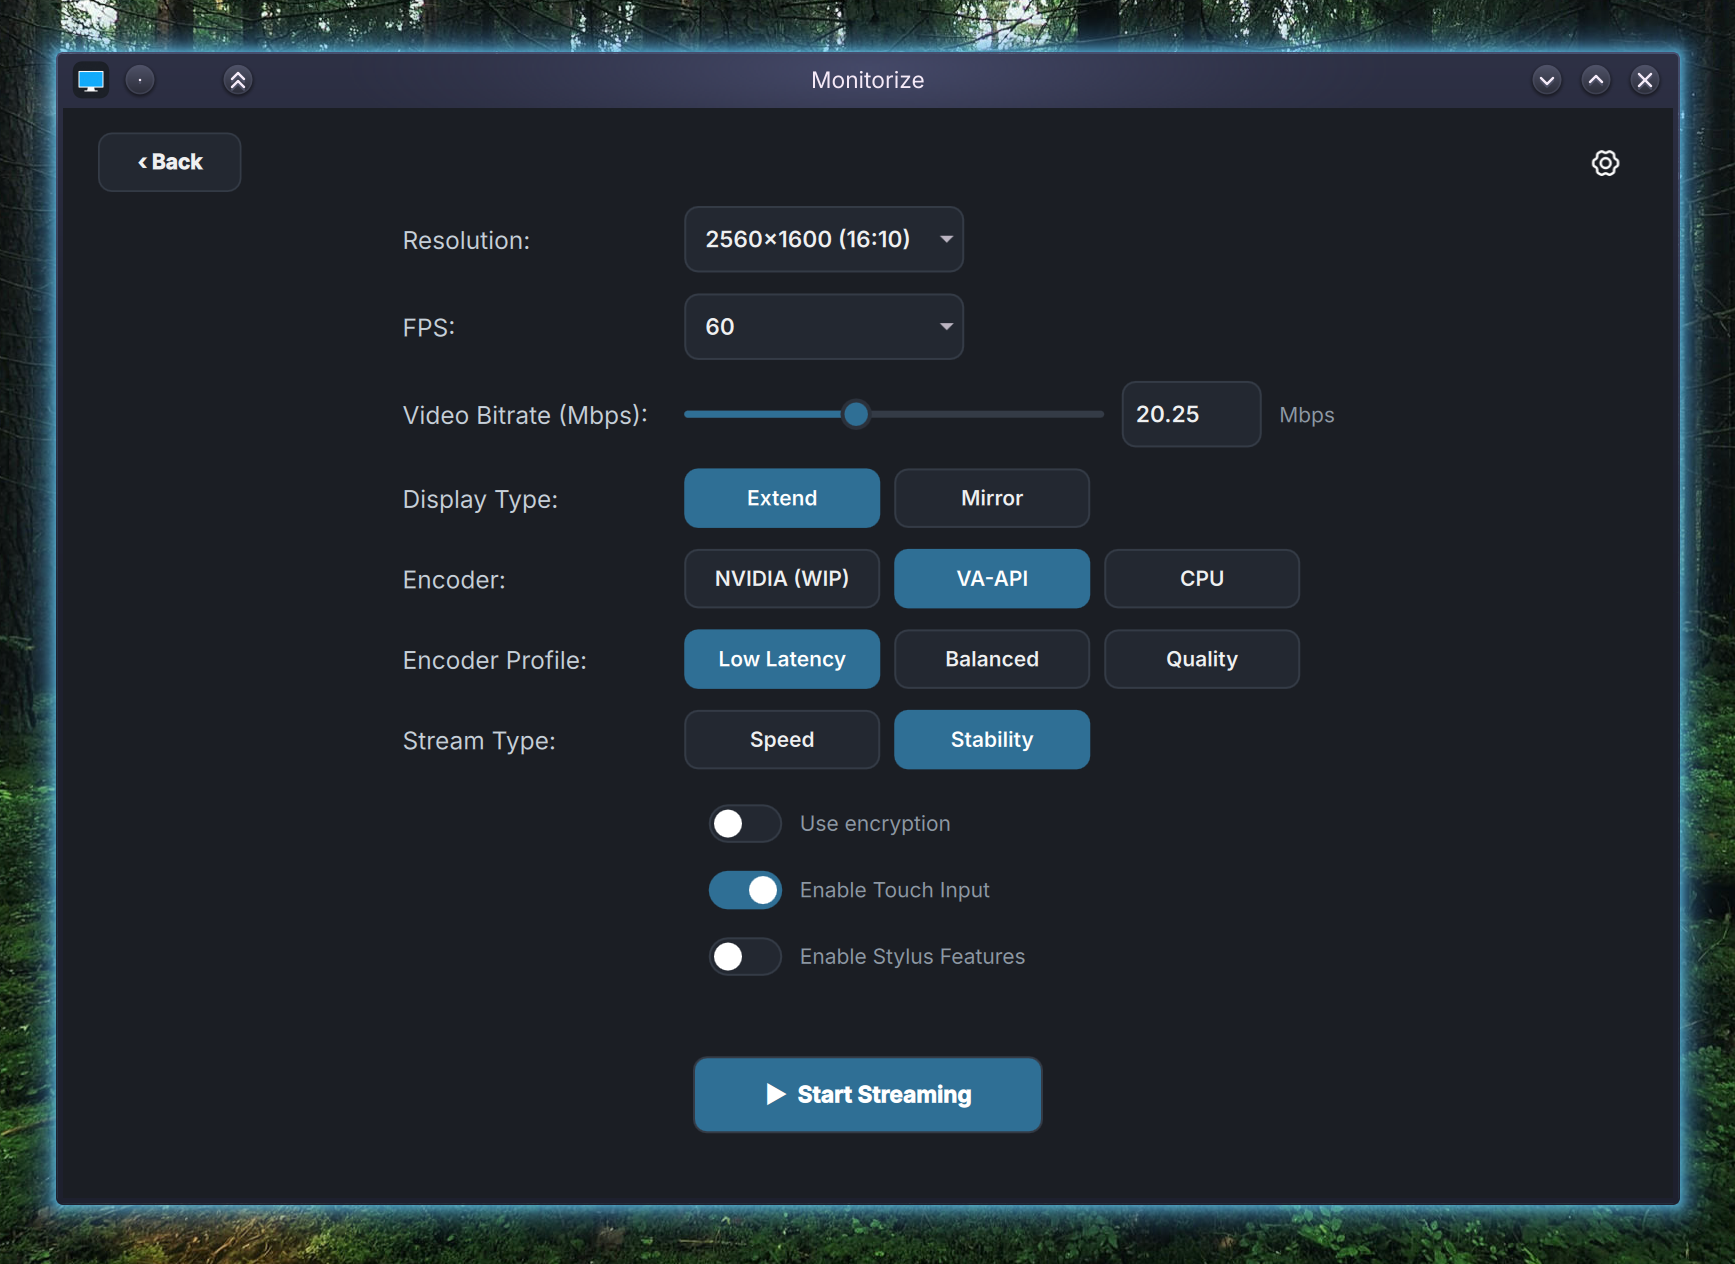
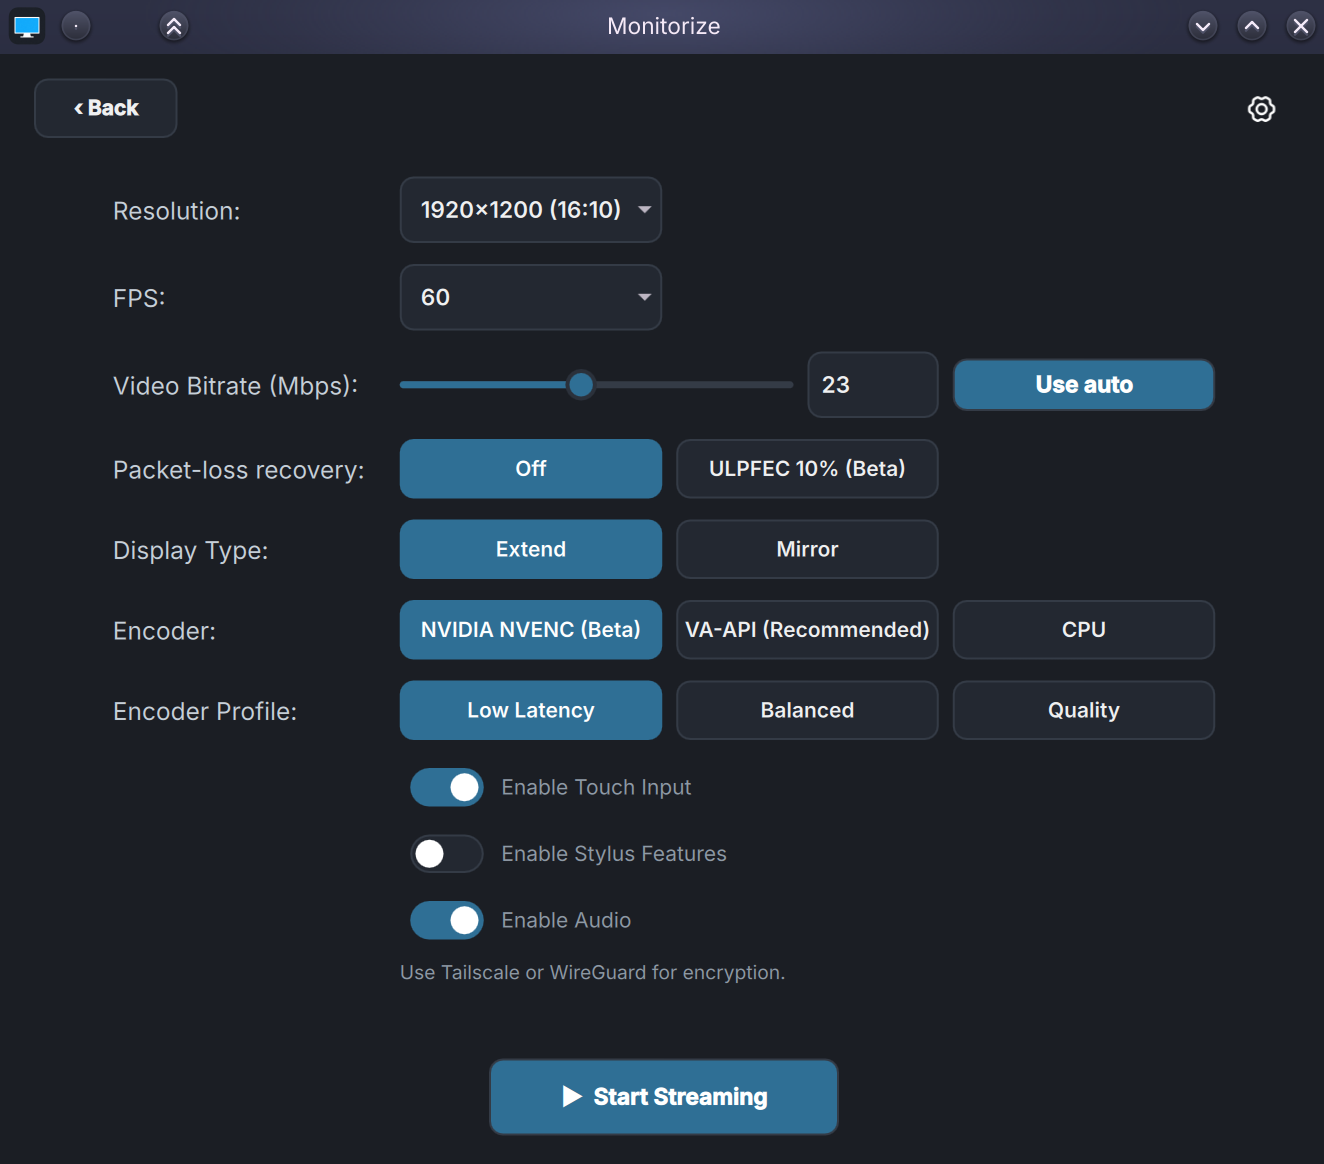
changed images and few chages to readme

diff --git a/README.md b/README.md
@@ -21,7 +21,7 @@
 
 ## 📖 Overview
 
-**Monitorize** turns your Android tablet, Laptop, PC into a secondary monitor for your Linux desktop.
+**Monitorize** turns your Android tablet, PC into a secondary monitor for your Linux desktop.
 
 **Supported desktop environments are KDE Plasma, Hyprland and GNOME.**
 
@@ -77,43 +77,13 @@ adb shell am start -n com.example.monitorize/.MainActivity
 
 1. After starting the stream in the desktop application make sure you go to your display settings and configure the newly created virtual display.
 
-2. When made changes to the virtual display's position and applied, then the stream crashes, it's normal just restart the stream and the virtual monitor will spawn in the previous applied position.
-
-### Notes:
-
-- Match the resolution and FPS set in the Android app's settings to the desktop app settings.
+2. When made changes to the virtual display's position, it might stop working, it's normal just restart the stream and the virtual monitor will spawn in the position it was set to.
 
 ---
 
 ## Contributing:
 
 Please read the [Contribution Guide](https://github.com/vinnavannewton/project-monitorize/wiki/Contributing).
-
----
-
-## 🗺 Roadmap
-
-- [x] Stable CPU encoder (Software encoder).
-
-- [x] Stable vaapi encoder
-
-- [x] Fix stream corruption.
-
-- [x] desktop GUI.
-
-- [x] Touch screen.
-
-- [x] Stylus support with pressure.
-
-- [x] Stable gnome.
-
-- [x] Linux laptop as a viewer.
-
-- [x] Multi monitor setup.
-
-- [x] NVIDIA NVENC with automatic DMA-BUF/GL, CUDA-upload, system-memory, and CPU fallback paths.
-
-- [ ] 
 
 ---
 
@@ -127,10 +97,6 @@ Please read the [Contribution Guide](https://github.com/vinnavannewton/project-m
  </picture>
 </a>
 
-<div align="center">
-  <sub>Expanding your productivity, one monitor at a time.</sub>
-</div>
-
 ---
 
 ## Support Monitorize
@@ -139,4 +105,10 @@ Please read the [Contribution Guide](https://github.com/vinnavannewton/project-m
   <a href="https://ko-fi.com/vinnavan">
     <img src="https://ko-fi.com/img/githubbutton_sm.svg" alt="Buy me a coffee on Ko-fi" />
   </a>
+</div>
+
+---
+
+<div align="center">
+  <sub>Expanding your productivity, one monitor at a time.</sub>
 </div>
